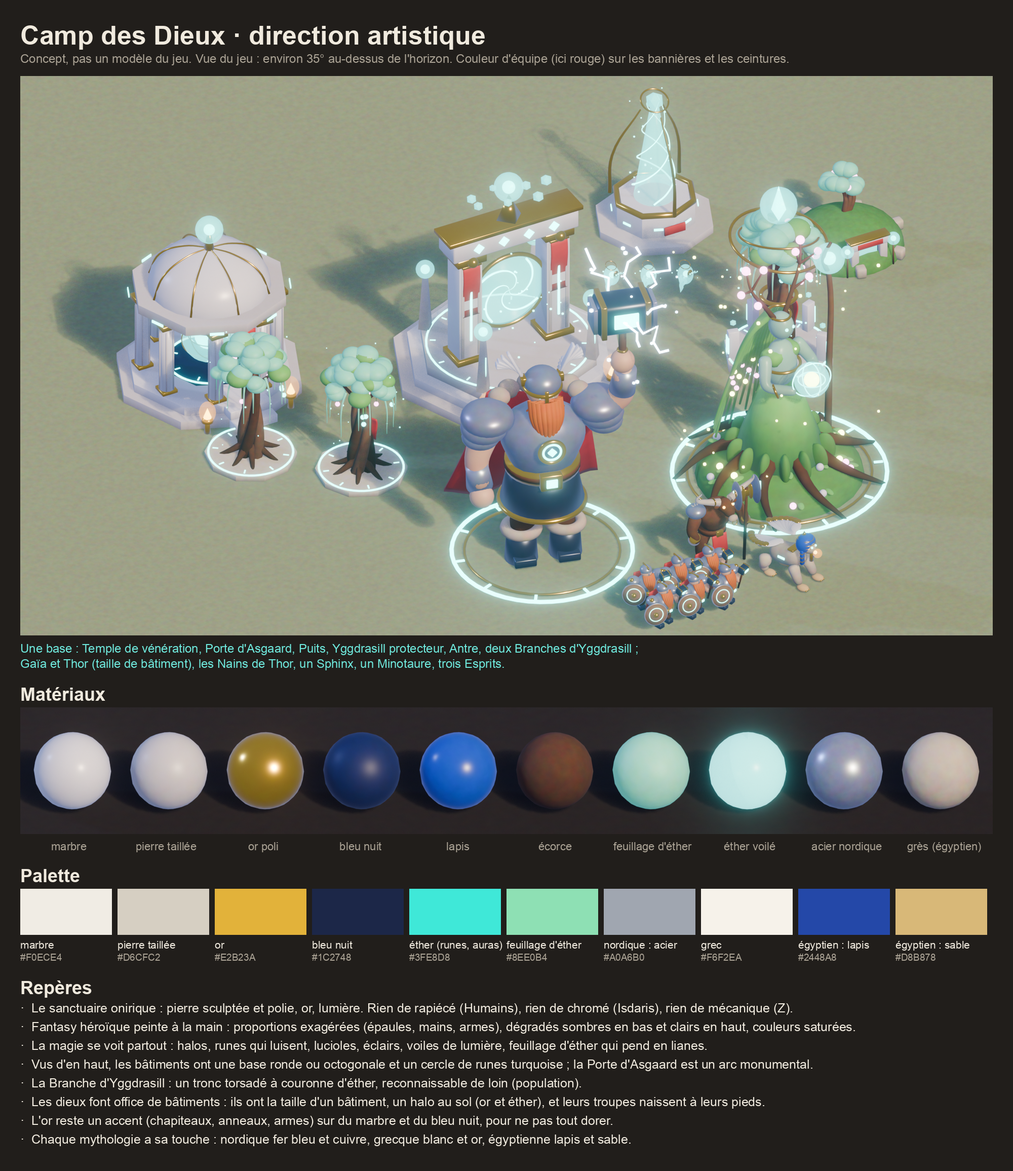
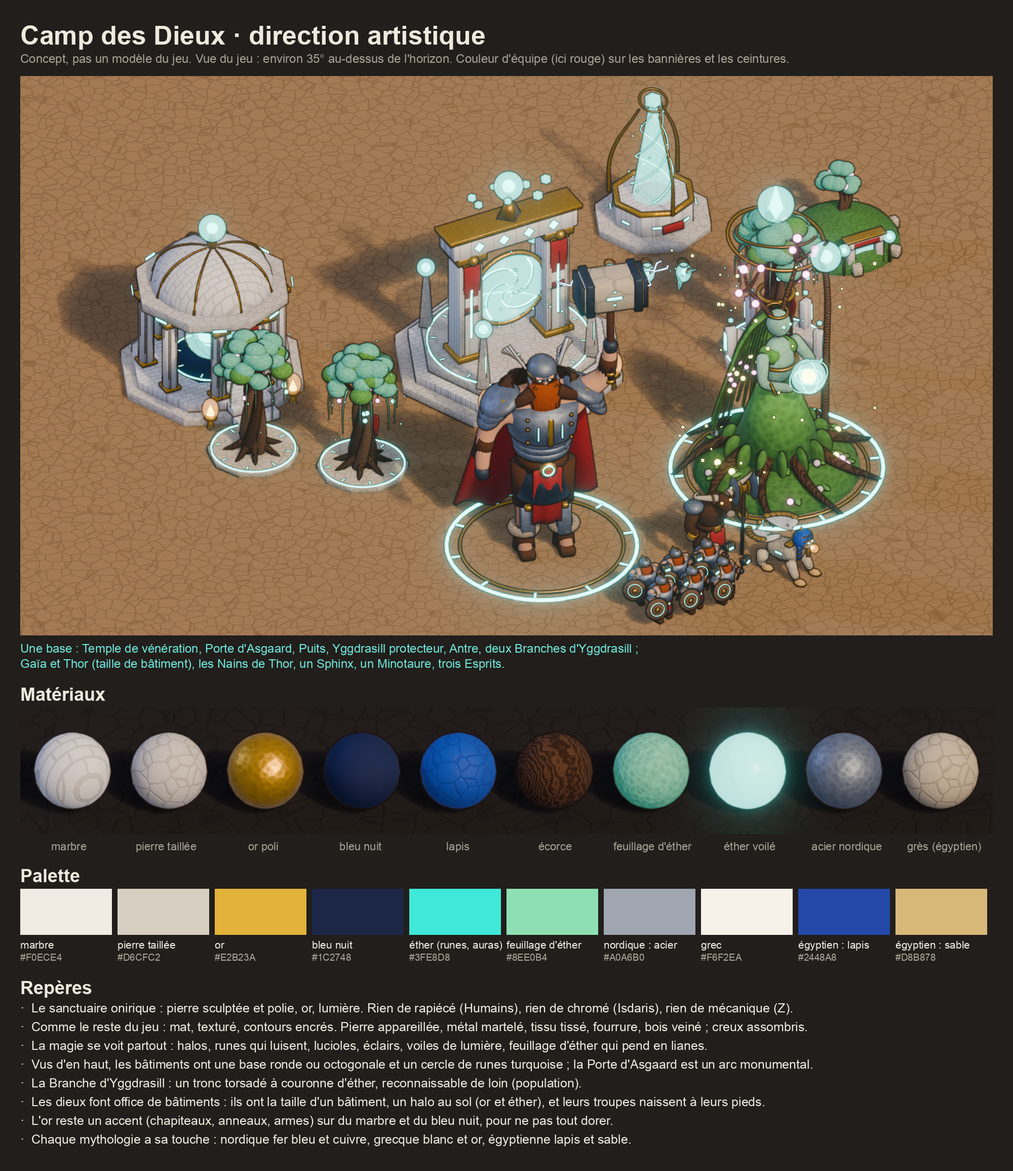
docs(dieux): concept art matched to the game: matte procedural textures (masonry, hammered metal, weave, fur, wood), ink outlines, cobbled ground; Thor, Apollon, Seth and the Nain rebuilt as one-piece bodies under plate armour and draped cloth

diff --git a/docs/camp-dieux.md b/docs/camp-dieux.md
@@ -264,7 +264,7 @@ Temple primordial, les trois sorts ultimes, l'Avatar de Jormunggand ; niveaux de
 
 Planches : [`docs/concepts-dieux/planche-camp.png`](concepts-dieux/planche-camp.png) (palette, matériaux, silhouettes) et [`docs/concepts-dieux/planche-v1.png`](concepts-dieux/planche-v1.png) (bâtiments clés et unités de la V1), rendues dans Blender sous l'angle du jeu (environ 35° au-dessus de l'horizon).
 
-**Style : fantasy héroïque peinte à la main, onirique.** Proportions exagérées (épaules, mains, armes, cornes), dégradés sombres en bas et clairs en haut comme une peinture, couleurs saturées ; la magie se voit partout (halos, runes lumineuses, lucioles, éclairs, voiles de lumière, feuillage d'éther qui pend en lianes). Inspiration générale de la fantasy stylisée des RTS, sans reprendre aucun modèle ni nom existant.
+**Style : fantasy héroïque onirique, rendue comme le reste du jeu** : matières mates et texturées (pierre appareillée, métal martelé, tissu tissé, fourrure, bois veiné), creux assombris, contours encrés ; corps d'une seule pièce aux proportions héroïques, armures en plaques ; la magie se voit partout (halos, runes lumineuses, lucioles, éclairs, voiles de lumière, feuillage d'éther qui pend en lianes). Inspiration générale de la fantasy stylisée des RTS, sans reprendre aucun modèle ni nom existant.
 
 **Idée directrice : le sanctuaire.** Les Humains bricolent (ferraille, rouille), les Isdaris sont Art déco chromé, les Z sont des machines rouillées sur câbles. Les Dieux sont **de la pierre sculptée et polie, de l'or et de la lumière** : rien de rapiécé, rien de mécanique, des formes posées et symétriques.
 
